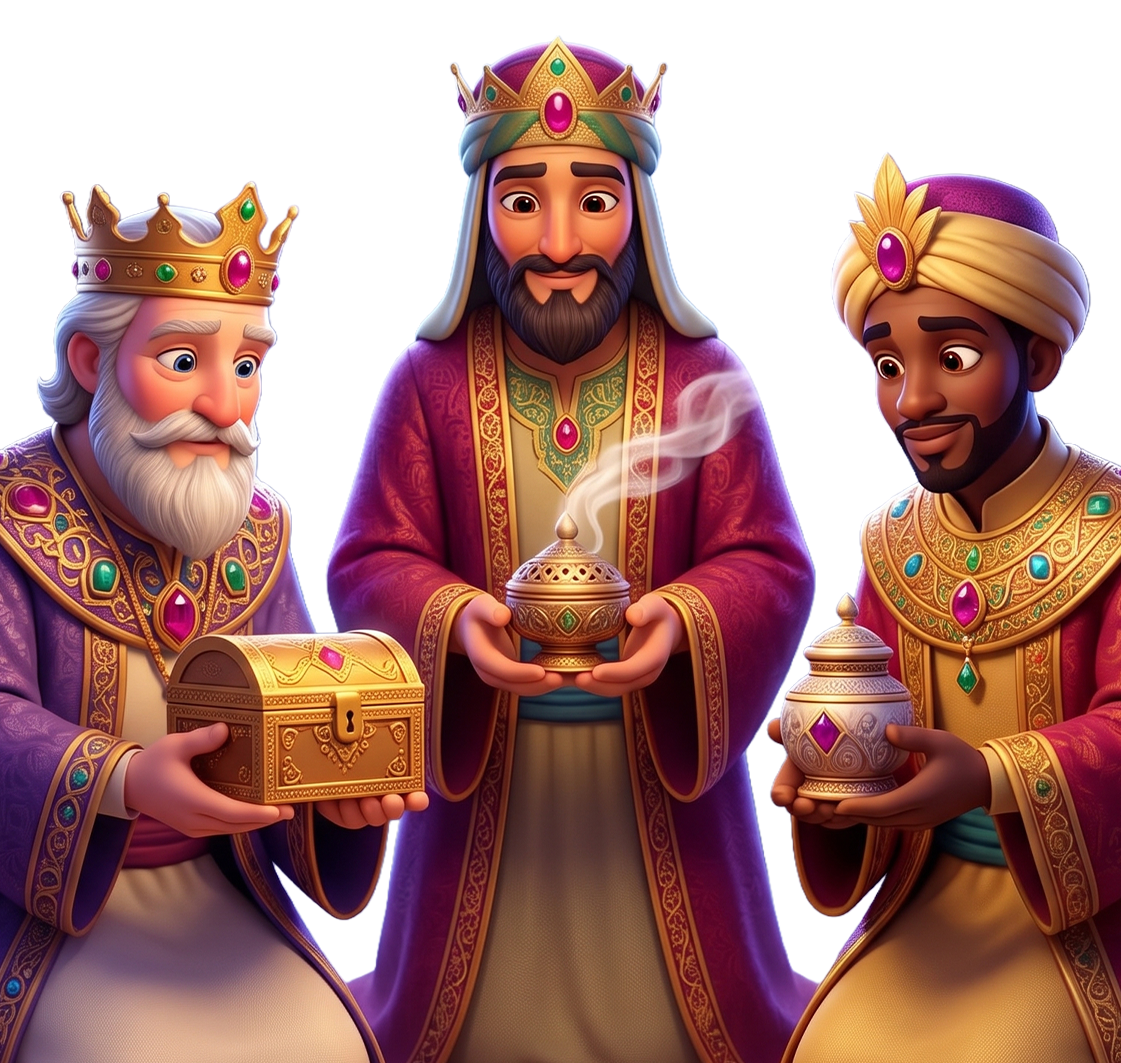
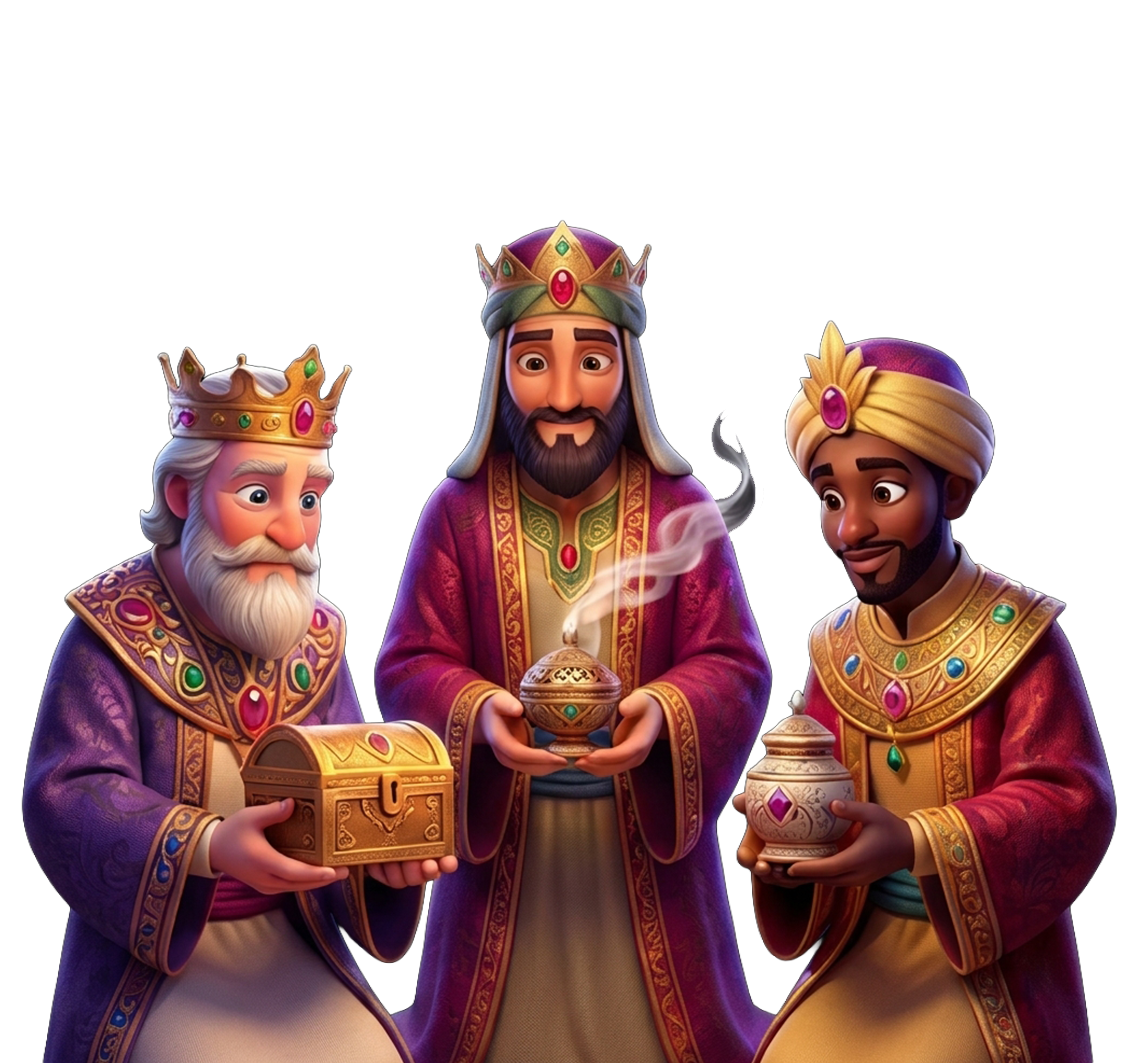
feat(audio): OST pari/dispari, resume stage e fade winSound
Riprende la musica stage tra i livelli; ost_1/ost_3 per stage dispari/pari; winSound con fade-in; asset thumbnail e world.

diff --git a/src/settings/soundtrack.ts b/src/settings/soundtrack.ts
@@ -2,7 +2,10 @@ import {isMusicEnabled} from "./music";
 
 const TRACKS = {
   home: {src: "/sounds/ost_0.mp3", volume: 0.65},
-  stage: {src: "/sounds/ost_1.mp3", volume: 0.65},
+  /** Stage con numero pari (2, 4, 6 …). */
+  stageEven: {src: "/sounds/ost_3.mp3", volume: 0.65},
+  /** Stage con numero dispari (1, 3, 5 …). */
+  stageOdd: {src: "/sounds/ost_1.mp3", volume: 0.65},
   game: {src: "/sounds/ost_2.mp3", volume: 0.32},
 } as const;
 
@@ -14,6 +17,9 @@ let queued: MusicTrack | null = null;
 let attempt = 0;
 let inFlight = false;
 let gestureArmed = false;
+
+/** Riprende ogni traccia dove era stata interrotta (es. stage dopo un livello). */
+const resumeAt = new Map<MusicTrack, number>();
 
 const element = (): HTMLAudioElement => {
   if (!audio) {
@@ -27,7 +33,43 @@ const element = (): HTMLAudioElement => {
 
 const sameFile = (src: string): boolean => element().src.endsWith(src);
 
+const rememberPosition = (track: MusicTrack | null): void => {
+  if (!track || !audio) return;
+
+  const t = audio.currentTime;
+
+  if (Number.isFinite(t) && t > 0) resumeAt.set(track, t);
+};
+
+const applyResumePosition = (el: HTMLAudioElement, track: MusicTrack): void => {
+  const saved = resumeAt.get(track);
+
+  if (saved == null || saved <= 0) return;
+
+  const seek = () => {
+    const duration = el.duration;
+
+    if (!Number.isFinite(duration) || duration <= 0) return;
+
+    if (saved < duration - 0.25) el.currentTime = saved;
+  };
+
+  if (el.readyState >= HTMLMediaElement.HAVE_METADATA) seek();
+  else el.addEventListener("loadedmetadata", seek, {once: true});
+};
+
 export const getMusicTrack = (): MusicTrack | null => current;
+
+/** `stageIndex` 0-based (0 = stage 1). Pari → ost_1, dispari → ost_3. */
+export const stageMusicTrack = (stageIndex: number): MusicTrack => {
+  const stageNumber = Math.max(0, Math.floor(stageIndex)) + 1;
+
+  return stageNumber % 2 === 0 ? "stageEven" : "stageOdd";
+};
+
+export const playStageTrack = (stageIndex: number): void => {
+  playTrack(stageMusicTrack(stageIndex));
+};
 
 const armGesture = () => {
   if (gestureArmed) return;
@@ -49,29 +91,13 @@ const armGesture = () => {
   );
 };
 
-export const playTrack = (track: MusicTrack) => {
-  if (typeof window === "undefined" || !isMusicEnabled()) {
-    stopTrack();
-
-    return;
-  }
-
-  const next = TRACKS[track];
+const startPlayback = (track: MusicTrack, token: number): void => {
   const el = element();
-  const same = current === track && sameFile(next.src);
-
-  if (same && (!el.paused || inFlight)) return;
-
-  current = track;
-  el.volume = next.volume;
-
-  if (!sameFile(next.src)) el.src = next.src;
-
-  const token = ++attempt;
 
   inFlight = true;
 
-  void el.play()
+  void el
+    .play()
     .then(() => {
       if (token === attempt) inFlight = false;
     })
@@ -87,10 +113,45 @@ export const playTrack = (track: MusicTrack) => {
     });
 };
 
+export const playTrack = (track: MusicTrack) => {
+  if (typeof window === "undefined" || !isMusicEnabled()) {
+    stopTrack();
+
+    return;
+  }
+
+  const next = TRACKS[track];
+  const el = element();
+  const sameTrack = current === track && sameFile(next.src);
+
+  if (sameTrack && inFlight) return;
+
+  if (sameTrack && !el.paused) return;
+
+  if (sameTrack && el.paused) {
+    el.volume = next.volume;
+    startPlayback(track, ++attempt);
+
+    return;
+  }
+
+  if (current && current !== track) rememberPosition(current);
+
+  current = track;
+  el.volume = next.volume;
+
+  if (!sameFile(next.src)) el.src = next.src;
+
+  applyResumePosition(el, track);
+
+  startPlayback(track, ++attempt);
+};
+
 export const stopTrack = () => {
   attempt += 1;
   inFlight = false;
   queued = null;
   current = null;
+  resumeAt.clear();
   audio?.pause();
 };

diff --git a/phaser/scenes/outro.ts b/phaser/scenes/outro.ts
@@ -11,6 +11,9 @@ import {addFillPair} from "../shared/fill-pair";
 const assetConf = CandyCrushAssetConf; //* Generalizzazione
 
 const WIN_FILL_MS = 1150;
+const WIN_SOUND_START_VOLUME = 0.04;
+const WIN_SOUND_PEAK_VOLUME = 1;
+const WIN_SOUND_RISE_MS = 2400;
 const RAINBOW_WIDTH = 0.78; // quota della larghezza schermo
 const RAINBOW_Y = 0.3; // centro pagina, sopra Gesù
 
@@ -103,7 +106,31 @@ export class Outro extends Phaser.Scene {
     const key =
       this.imageKey === assetConf.image.endWin ? assetConf.audio.winSound : assetConf.audio.loseSound;
 
-    if (this.cache.audio.exists(key)) this.sound.play(key);
+    if (!this.cache.audio.exists(key)) return;
+
+    if (key !== assetConf.audio.winSound) {
+      this.sound.play(key);
+
+      return;
+    }
+
+    const sfx = this.sound.add(key, {volume: WIN_SOUND_START_VOLUME});
+
+    sfx.play();
+
+    const level = {volume: WIN_SOUND_START_VOLUME};
+
+    this.tweens.add({
+      targets: level,
+      volume: WIN_SOUND_PEAK_VOLUME,
+      duration: WIN_SOUND_RISE_MS,
+      ease: "Sine.easeOut",
+      onUpdate: () => {
+        if ("setVolume" in sfx && typeof sfx.setVolume === "function") {
+          sfx.setVolume(level.volume);
+        }
+      },
+    });
   }
 
   #addWinRainbow(width: number, height: number) {

diff --git a/phaser/scenes/stage-map.ts b/phaser/scenes/stage-map.ts
@@ -5,7 +5,7 @@ import {playClick, playNoTouch, playRecharge} from "@/settings/click";
 import {getHeartRemaining, isHeartEmpty, refillHeart, spendHeart} from "@/settings/heart";
 import {getStageIndex, getUnlockedCount} from "@/settings/progress";
 import {darkenHex, getStageLevelNumber, getStageMap, hexToInt, stagePoint, type StageMapConfig} from "@/settings/stage-map";
-import {playTrack} from "@/settings/soundtrack";
+import {playStageTrack} from "@/settings/soundtrack";
 import {CandyCrushAssetConf} from "../shared/config/asset-conf.const";
 import {APP_FONT} from "../shared/config/font.const";
 import {HEADER_INSET_MAX, HEADER_INSET_MIN} from "../shared/config/layout.const";
@@ -72,7 +72,7 @@ export class StageMapScene extends Phaser.Scene {
     const pathBottom = 1 - mascotH / worldH;
     const stops = Array.from({length: map.levels}, (_, index) => stagePoint(map, index, pathBottom));
 
-    playTrack("stage");
+    playStageTrack(stage);
 
     this.add
       .image(width / 2, height / 2, assetConf.image.backgroundStage)

diff --git a/src/components/HomeScreen.tsx b/src/components/HomeScreen.tsx
@@ -10,7 +10,8 @@ import {addBooster, getBoosterCount, isBoosterFull, type BoosterId} from "@/sett
 import {refillHeart} from "@/settings/heart";
 import {isEffectsEnabled, setEffectsEnabled} from "@/settings/effects";
 import {isMusicEnabled, setMusicEnabled} from "@/settings/music";
-import {getMusicTrack, playTrack, stopTrack} from "@/settings/soundtrack";
+import {getStageIndex} from "@/settings/progress";
+import {getMusicTrack, playStageTrack, playTrack, stopTrack} from "@/settings/soundtrack";
 
 import {HomeLightFall} from "./HomeLightFall";
 import {PhaserGame} from "./PhaserGame";
@@ -390,7 +391,7 @@ export function HomeScreen() {
     if (!isNewTestamentPressed) return;
 
     const timer = setTimeout(() => {
-      playTrack("stage");
+      playStageTrack(getStageIndex());
       setIsPlaying(true);
     }, PRESS_MS);
 

diff --git a/phaser/scenes/opening.ts b/phaser/scenes/opening.ts
@@ -1,7 +1,8 @@
 import * as Phaser from "phaser";
 
 import {getCurrentLanguage, openingTextKey, t} from "@/language";
-import {playTrack} from "@/settings/soundtrack";
+import {getStageIndex} from "@/settings/progress";
+import {playStageTrack} from "@/settings/soundtrack";
 import {CandyCrushAssetConf} from "../shared/config/asset-conf.const";
 import {EventBus, PhaserEvents} from "../shared/event-bus";
 import {DEFAULT_STAGE} from "../shared/config/asset-paths.const";
@@ -38,7 +39,7 @@ export class OpeningScene extends Phaser.Scene {
     const fontSize = Math.round(Phaser.Math.Clamp(width * 0.042, 26, 58));
 
     this.#isComplete = false;
-    playTrack("stage");
+    playStageTrack(getStageIndex());
 
     const art = this.#placeArt(width, height);
     const panelW = width * 0.86;
